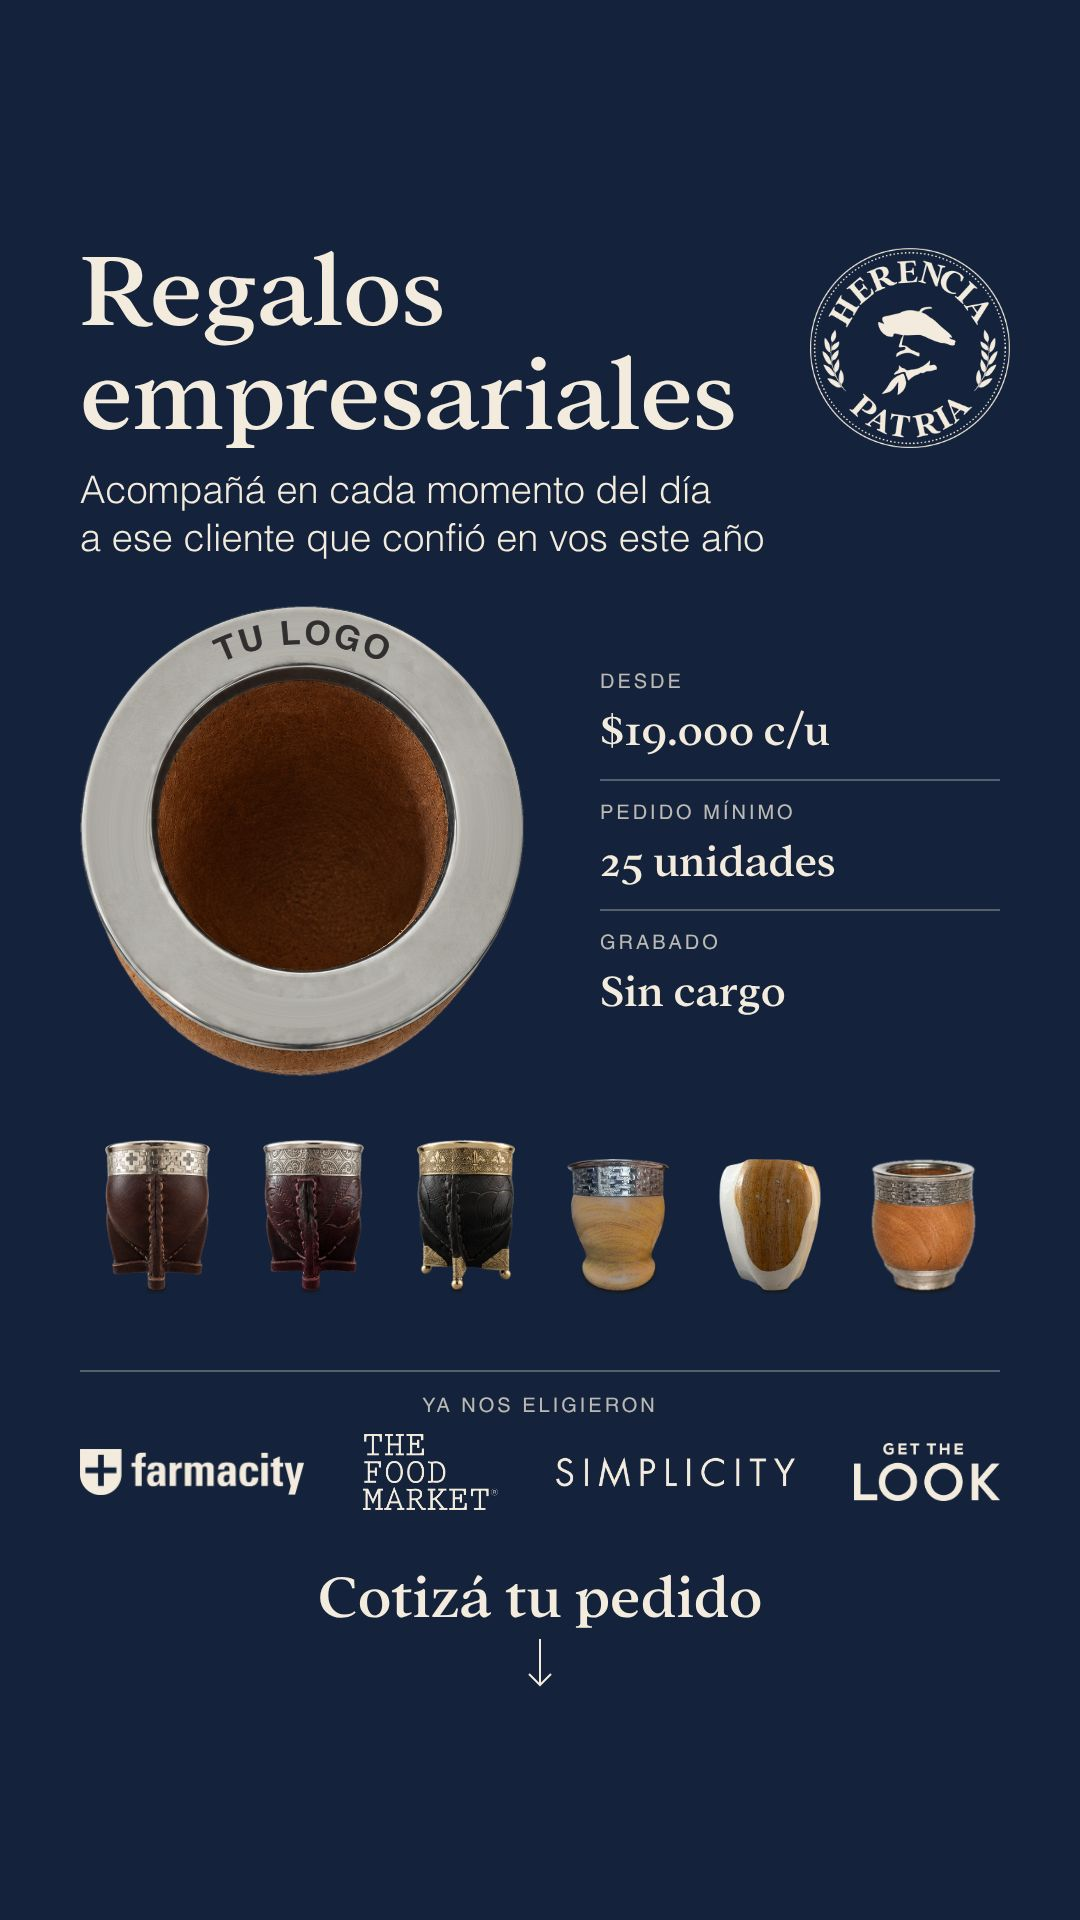
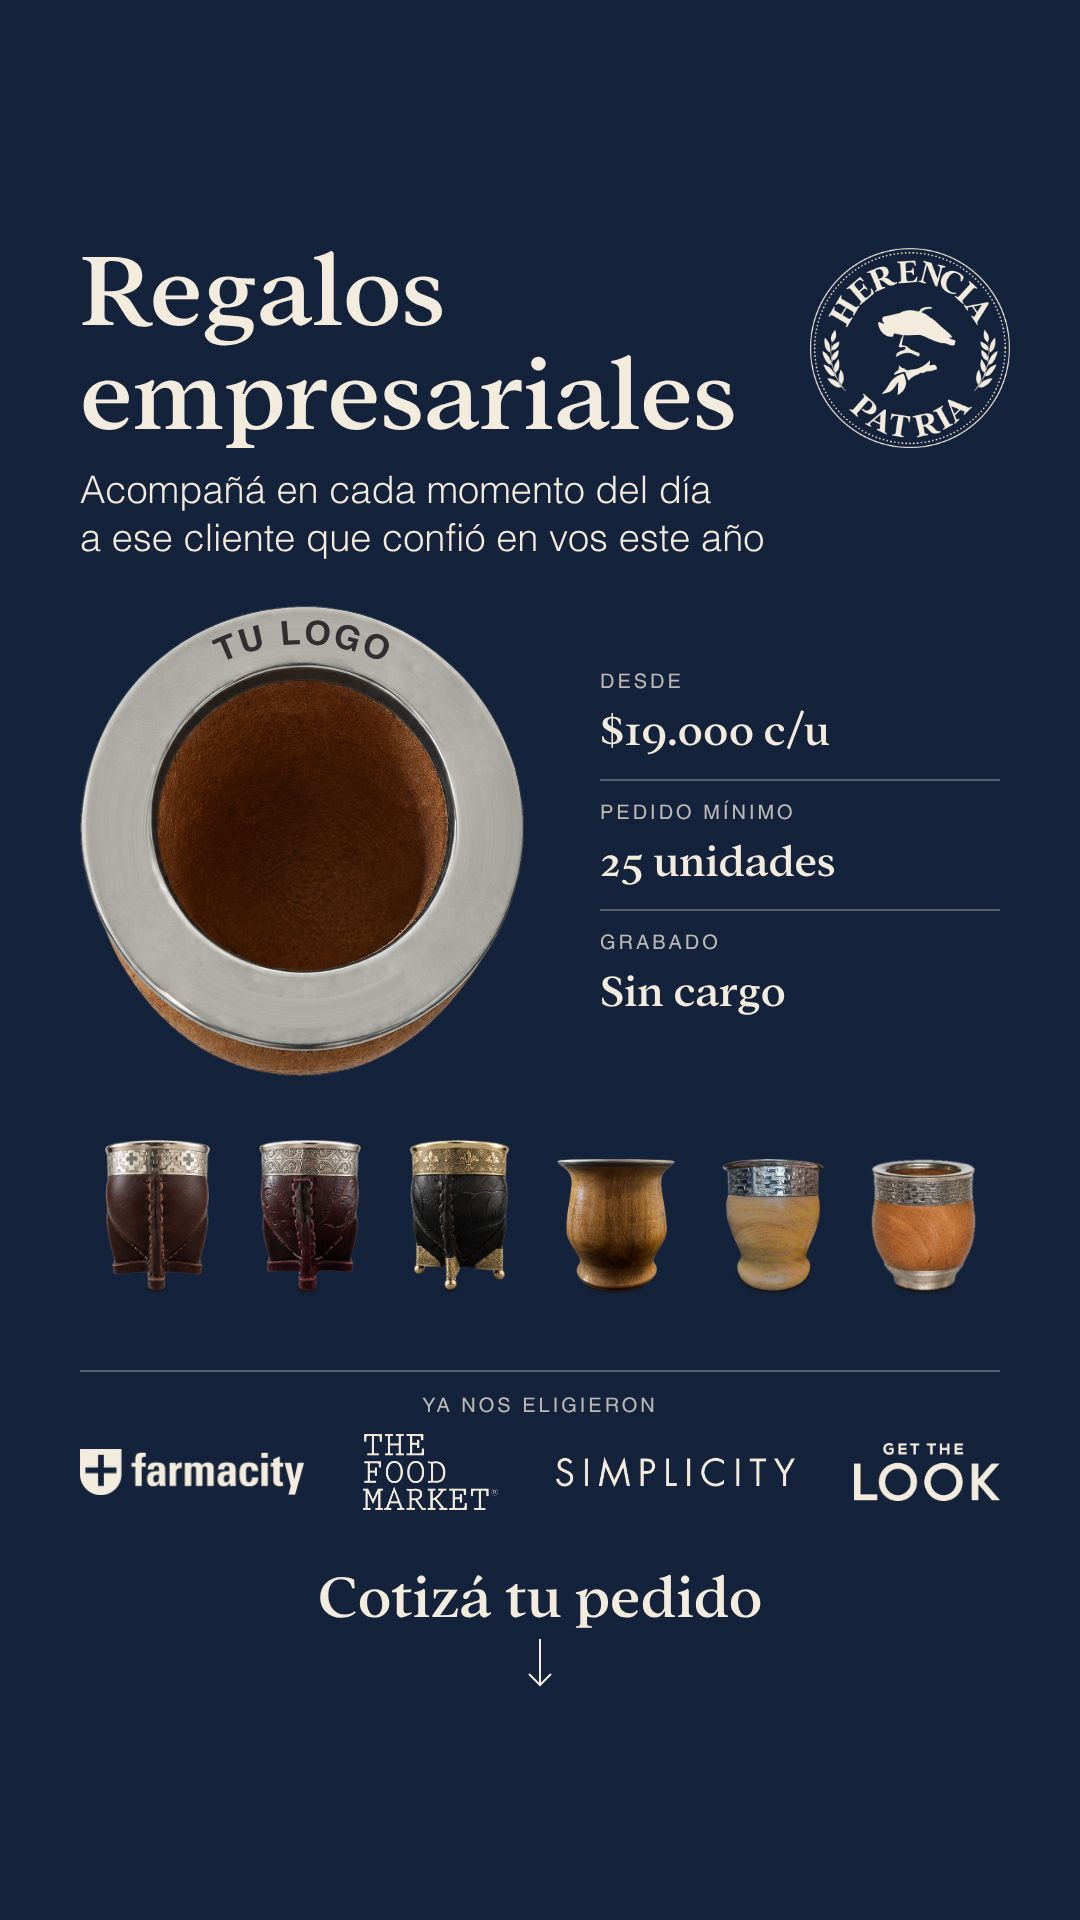
Historia empresas B: algarrobo camionero, imperial e imperial con base
Claude-Session: https://claude.ai/code/session_012H3xPSmbqKoMmc2aK7okNH

diff --git a/src/Root.tsx b/src/Root.tsx
@@ -445,14 +445,14 @@ export const RemotionRoot: React.FC = () => {
             ["Grabado", "Sin cargo"],
           ] as [string, string][],
           // Los de calabaza (simple, repujado y base bolita), algo más
-          // grandes, y los de algarrobo (imperial, pintado e imperial con base).
+          // grandes, y los de algarrobo (camionero, imperial e imperial con base).
           // Fotos del catálogo.
           mates: [
             ["recortes/calabaza-simple.png", 150],
             ["recortes/calabaza-repujado.png", 150],
             ["recortes/calabaza-base-bolita.png", 150],
+            ["recortes/algarrobo-camionero.png", 132],
             ["recortes/algarrobo-imperial.png", 132],
-            ["recortes/algarrobo-pintado.png", 132],
             ["recortes/algarrobo-imperial-con-base.png", 132],
           ] as [string, number][],
           confianza: "Ya nos eligieron",
